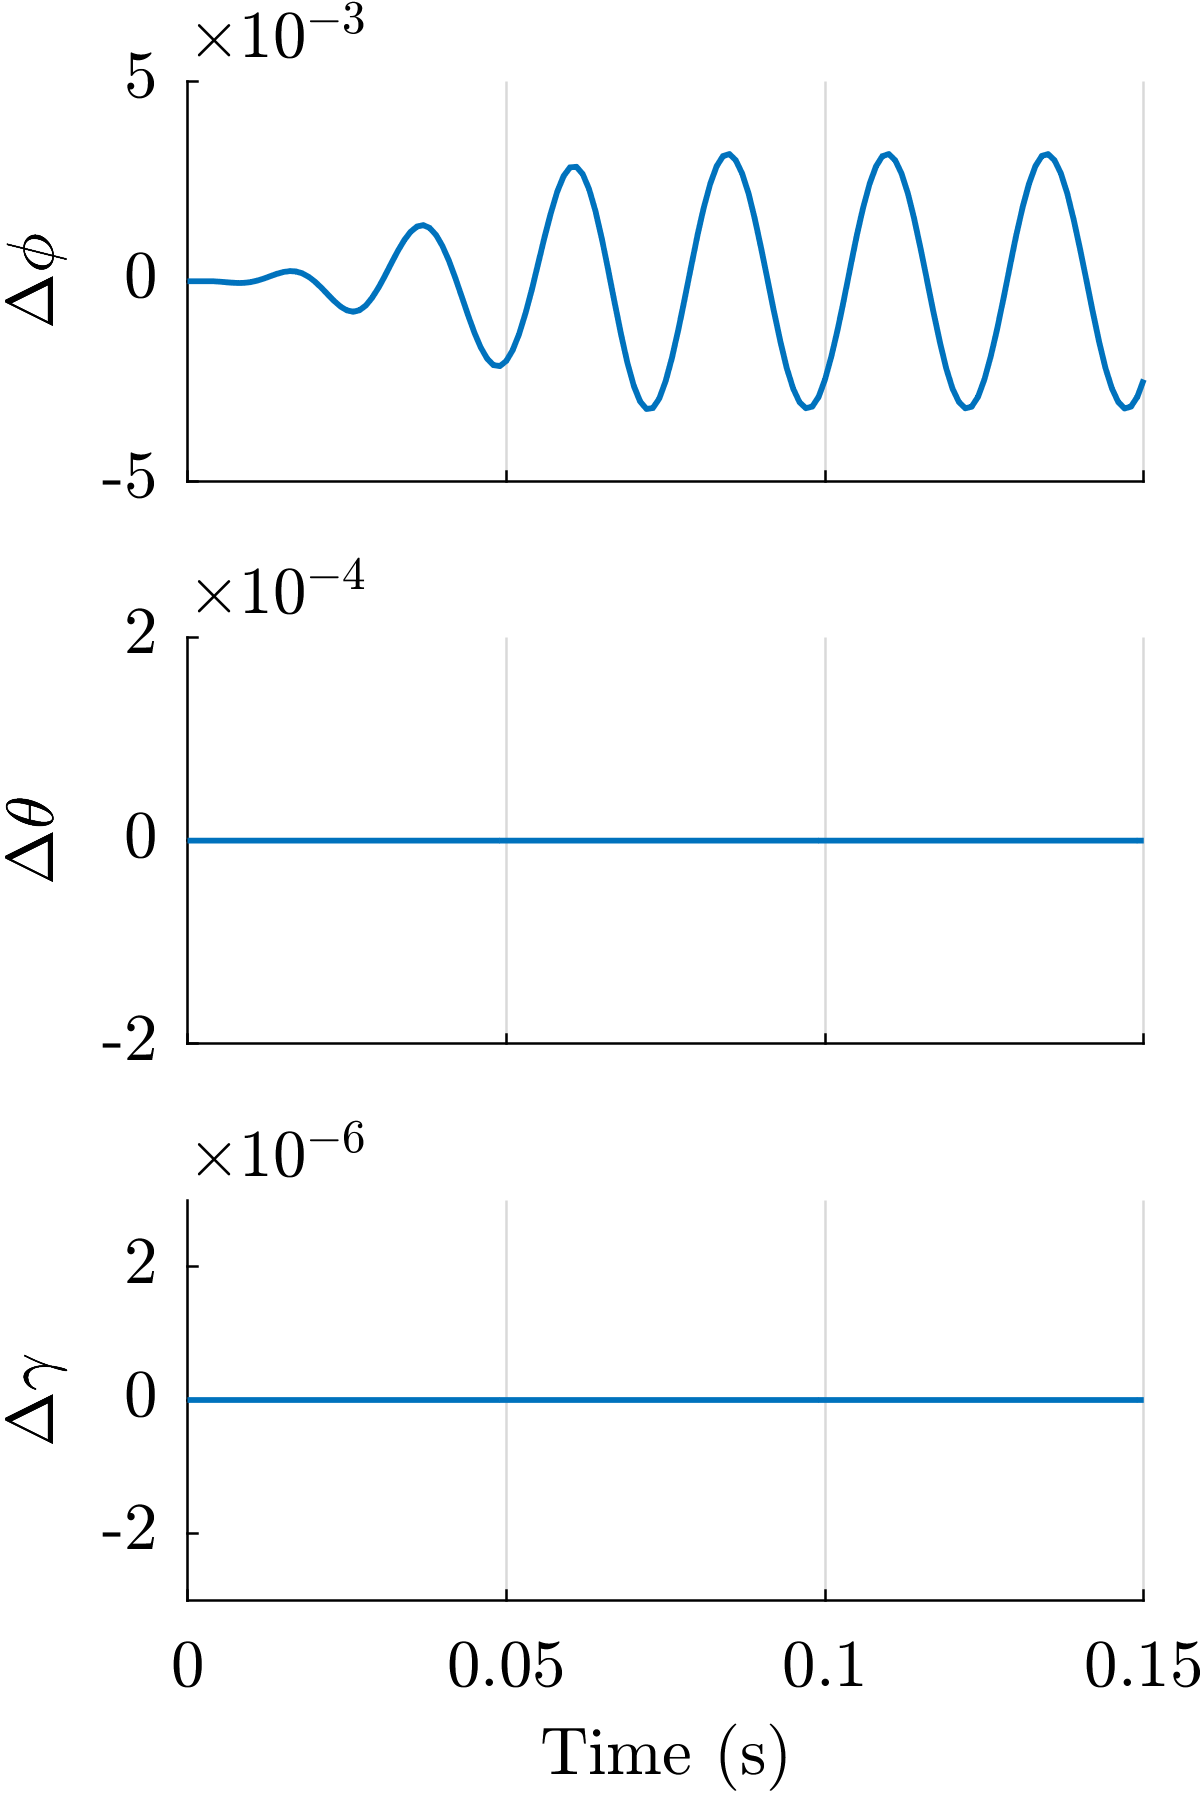
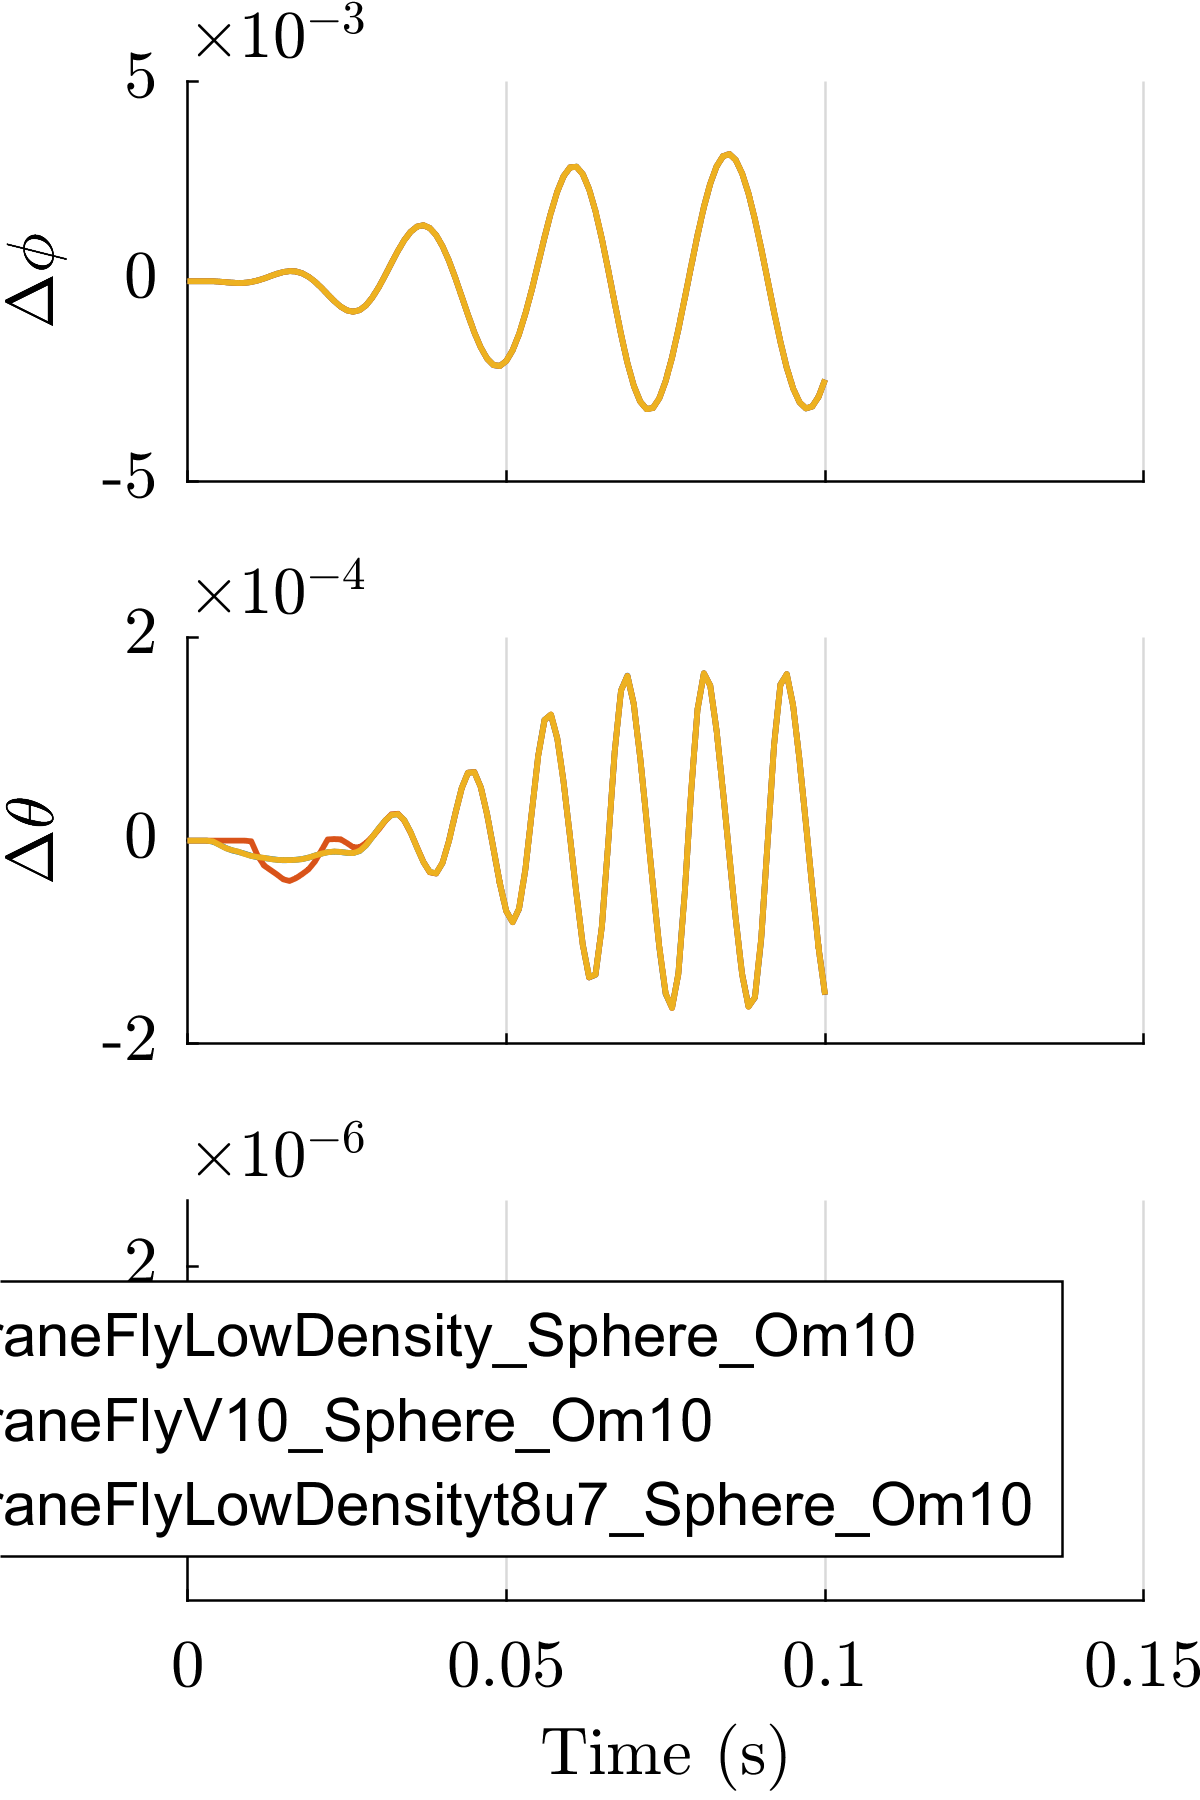
check t8u7 figures

diff --git a/scripts/Figure1_FEA_plotLines.m b/scripts/Figure1_FEA_plotLines.m
@@ -7,11 +7,23 @@ run('config_file.m')
 loadName = 'figure1_deform';
 saveName = 'figure1_deform';
 
-renew_data_load = false
-% renew_data_load = true
+% renew_data_load = false
+renew_data_load = true
 if renew_data_load
     FEA(1).name = 'Haltere_CraneFlyLowDensity_Sphere_Om0';
     FEA(2).name = 'Haltere_CraneFlyLowDensity_Sphere_Om10';
+    FEA(3).name = 'Haltere_CraneFlyLowDensityt7_Sphere_Om10';
+    FEA(4).name = 'Haltere_CraneFlyLowDensityu7_Sphere_Om10';
+    FEA(6).name = 'Haltere_CraneFlyLowDensityt8u7_Sphere_Om10';
+%     FEA(4).name = 'Haltere_CraneFlyV4_Sphere_Om10';
+    FEA(5).name = 'Haltere_CraneFlyV10_Sphere_Om10';
+%     FEA(6).name = 'Haltere_CraneFlyV10_Sphere_Om10';
+    FEA(7).name = 'Haltere_CraneFlyV11_Sphere_Om10';
+    FEA(8).name = 'Haltere_CraneFlyV11_Sphere_Om10';
+    FEA(9).name = 'Haltere_CraneFlyV12_Sphere_Om10';
+    FEA(10).name = 'Haltere_CraneFlyV12_Sphere_Om10';
+    FEA(11).name = 'Haltere_CraneFlyV14_Sphere_Om10';
+    FEA(12).name = 'Haltere_CraneFlyV14_Sphere_Om10';
     for j =  1:length(FEA)
         tic
         [~, FEA(j).strain, ~] = loadCSV( ['data' filesep  FEA(j).name], { 'eXX' });
@@ -27,8 +39,8 @@ if renew_data_load
                      abs( FEA(j).xyz(:,3) )   <er);
         zMatch = find(   abs(abs( FEA(j).xyz(:,3) ) - circleRadius)  <er & ...
                      abs( FEA(j).xyz(:,2) )   <er);
-        FEA(j).sideInds2 = intersect(xMatch,yMatch);
-        FEA(j).topInds2 = intersect(xMatch,zMatch);
+        FEA(j).sideInds = intersect(xMatch,yMatch);
+        FEA(j).topInds = intersect(xMatch,zMatch);
     end
        
     % Transpose deformation to haltere frame 
@@ -69,7 +81,7 @@ fig1 = figure();
     set(fig1, 'Position', [fig1.Position(1:2) width*100, height*100]); %<- Set size
 
     
-len = 151;
+len = 101;
 start = 35;
 It = start:(start+len-1);
 t_plot = (0:len-1)*0.001;
@@ -78,7 +90,7 @@ axOpts_dphi{4} = [0,0.15];
 axOpts_dtheta{4} = [0,0.15];
 axOpts_dgamma{4} = [0,0.15];
 
-for j = 1%[1,3,5]
+for j = [2,5,6]%1:2:11%[1,3,5]
     subplot(3,1,1); hold on 
         p1 = plot( t_plot, FEA(j).yAngle(It) );
         ylabel( deformLabels{1} );
@@ -97,6 +109,7 @@ for j = 1%[1,3,5]
         ax = gca();
         set(ax,axOpts_dgamma{:})
 end
+legend( FEA([2,5,6]).name)
 %% Setting paper size for saving 
 set(gca, 'LooseInset', get(gca(), 'TightInset')); % remove whitespace around figure
 tightfig;
@@ -120,7 +133,7 @@ fig2 = figure();
     set(fig2, 'Position', [fig2.Position(1:2)+[width*100,0] width*100, height*100]); %<- Set size
     colormap(strainScheme)%     colorbar
         
-for j = 2
+for j = 2:2:14
     subplot(3,1,1); hold on 
         p1 = plot( t_plot, FEA(j).yAngle(It) );
         ylabel( deformLabels{1} );
